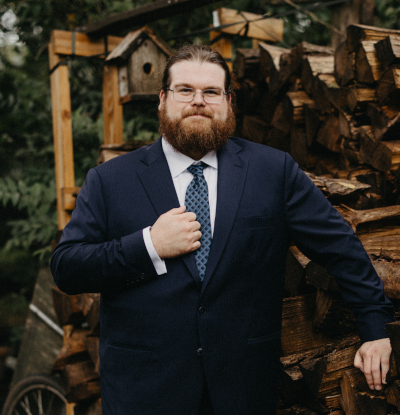
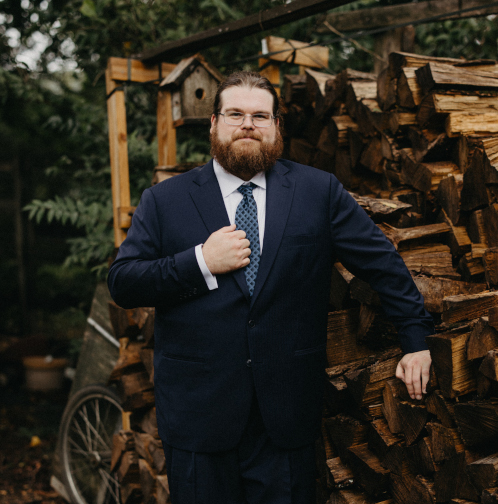
Update about page

diff --git a/static/css/style.css b/static/css/style.css
@@ -203,6 +203,13 @@ img[src$='#leftsmall']
   float:left;
 }
 
+img[src$='#leftsupersmall']
+{
+  max-width: 17%;
+  padding: 0.5em 2% 0 0;
+  float:left;
+}
+
 img[src$='#leftlarge']
 {
   max-width: 60%;
@@ -220,6 +227,13 @@ img[src$='#right']
 img[src$='#rightsmall']
 {
   max-width: 25%;
+  padding: 0.5em 0 0 2%;
+  float:right;
+}
+
+img[src$='#rightsupersmall']
+{
+  max-width: 17%;
   padding: 0.5em 0 0 2%;
   float:right;
 }

diff --git a/content/about.md b/content/about.md
@@ -3,23 +3,25 @@ title: About Me
 ---
 
 ![PhDone!](/images/phdone.jpg#right)
-I received my Ph.D. in Physics at [UC Berkeley](https://cal.berkeley.edu/benland100/) in 2019 after receiving a B.S. in Physics from [Georgia Tech](https://sites.gatech.edu/benland100/) in 2013. 
-Going from undergrad to graduate school, I entirely switched research interests from [atomic molecular and optical physics](https://en.wikipedia.org/wiki/Atomic,_molecular,_and_optical_physics) (particularly [Bose-Einstein condensates](https://en.wikipedia.org/wiki/Bose%E2%80%93Einstein_condensate)) to [weakly interacting physics](https://en.wikipedia.org/wiki/Weak_interaction) and worked with a [group at Berkeley](https://underground.physics.berkeley.edu/) studying [neutrinos](https://en.wikipedia.org/wiki/Neutrino).
-Ultimately my thesis ended up being about using [solar neutrinos](https://en.wikipedia.org/wiki/Solar_neutrino) to understand fundamental properties of neutrinos, and developing new neutrino detection techniques. 
-You can [find a copy here](https://ben.land/files/thesis_final.pdf). 
-During graduate school, my particular involvement was with the [SNO](https://sno.phy.queensu.ca/), [SNO+](https://snoplus.phy.queensu.ca/), and [Theia](https://theia.berkeley.edu/index.php/Main_Page) projects.
+![gatech!](/images/gatech.png#leftsupersmall)
+I received my Ph.D. in Physics at UC Berkeley in 2019 after receiving a B.S. in Physics from Georgia Tech in 2013, and generally was a nerd before that as well.
+Going from undergrad to graduate school, I pivoted research interests from [atomic molecular and optical physics](https://en.wikipedia.org/wiki/Atomic,_molecular,_and_optical_physics), with [a research group Georgia Tech](https://chapmanlabs.gatech.edu/) studying [Bose-Einstein condensates](https://en.wikipedia.org/wiki/Bose%E2%80%93Einstein_condensate)), to [weakly interacting physics](https://en.wikipedia.org/wiki/Weak_interaction), with a group at UC Berkeley studying [neutrinos](https://en.wikipedia.org/wiki/Neutrino).
 
-![UPenn Shield](/images/upenn.png#leftsmall)
-I then did research as a postdoc at the [University of Pennsylvania](https://web.sas.upenn.edu/bland100/) where I continued to research neutrinos in the [high energy physics neutrino group](https://live-sas-physics.pantheon.sas.upenn.edu/research/particle-physics). 
-I've remained involved in the SNO+ and Theia projects, and got invoved in the [DUNE](https://www.dunescience.org/) experiment, where I focused on developing software for the cold electronics, data acquisition, and data selection, while exploring (solar) neutrino interactions in liquid argon.
+![berkeley!](/images/berkeley.png#rightsupersmall)Ultimately [my thesis](https://ben.land/files/thesis_final.pdf) was about using measurements of [solar neutrinos](https://en.wikipedia.org/wiki/Solar_neutrino) to understand fundamental properties of neutrinos, and developing new neutrino detection techniques. 
+During graduate school, I was a member of the [SNO](https://sno.phy.queensu.ca/), [SNO+](https://snoplus.phy.queensu.ca/), and [Theia/EOS](https://nino.lbl.gov/eos/detector.html) collaborations.
 
-After around a decade doing fundamental physics research, I decided to use the physics PhD and associated skills as leverage to pivot into industry. 
-I now work as a senior manager of data science at Comcast, applying the quantitative and analytical skills developed doing physics research to the problem of predicting optimal business strategies.
-In this role I develop new techniques and approaches for solving business problems, as well as maintain the core infrastructure enabling the wider team to do work.
+![UPenn Shield](/images/upenn.png#leftsupersmall)
+After getting my PhD, I then did research as a postdoc at the [University of Pennsylvania](https://web.sas.upenn.edu/bland100/) where I continued to research neutrinos in the [high energy physics neutrino group](https://live-sas-physics.pantheon.sas.upenn.edu/research/particle-physics). 
+I remained involved in the SNO+ and Theia projects, and got involved in the [DUNE](https://www.dunescience.org/) experiment, where I focused on developing software for the cold electronics, data acquisition, and data selection, while exploring (solar) neutrino interactions in liquid argon.
 
-Otherwise, I am 33(+) years old, currently live in Ardmore, PA, and originally hail from Macon, GA. 
-I am a long time programmer, have contributed to many projects, and learned many languages since I became interested in using computers to automate mundane human tasks (read: automating MMORPGs) back in the early aughts. 
-Check out my [GitHub](https://github.com/BenLand100) for more about the projects I deemed most interesting. 
-Besides physics and programming, I enjoy the [photography](https://ben.land/photos/), [beekeeping](https://ben.land/beecam/), video games (Minecraft, Factorio, Rimworld...), tinkering with electronics, and [astrophotography](https://ben.land/astro/).
+![UPenn Shield](/images/comcast.png#rightsmall)
+After around a decade doing fundamental physics research, I decided to use the physics PhD and associated skills as leverage to pivot into data science and machine learning. 
+I now work as a senior manager of machine learning at Comcast, applying the quantitative and analytical skills developed doing physics research to the problem of predicting optimal business strategies.
+In this role my team and I develop new techniques and approaches for solving business problems at scale, as well as maintain the core infrastructure enabling the wider team to do work.
+
+Otherwise, I am 34(+) years old, happily married, and currently live in Philadelphia suburbs after growing up in middle Georgia and spending some time on the west coast.
+I am a long time programmer, Linux enthusiast, have contributed to many open source projects, and learned many programming languages since I became interested in using computers to automate mundane human tasks (read: automating MMORPGs) back in the early aughts. 
+Check out my [GitHub](https://github.com/BenLand100) and [blog posts](https://ben.land/post/) for more about the projects I consider most interesting. 
+Besides physics and programming, I enjoy the [photography](https://ben.land/photos/), [beekeeping](https://ben.land/beecam/), video games (Minecraft, Factorio, Rimworld...), tinkering with electronics, amateur radio, and [astrophotography](https://ben.land/astro/).
 
 
